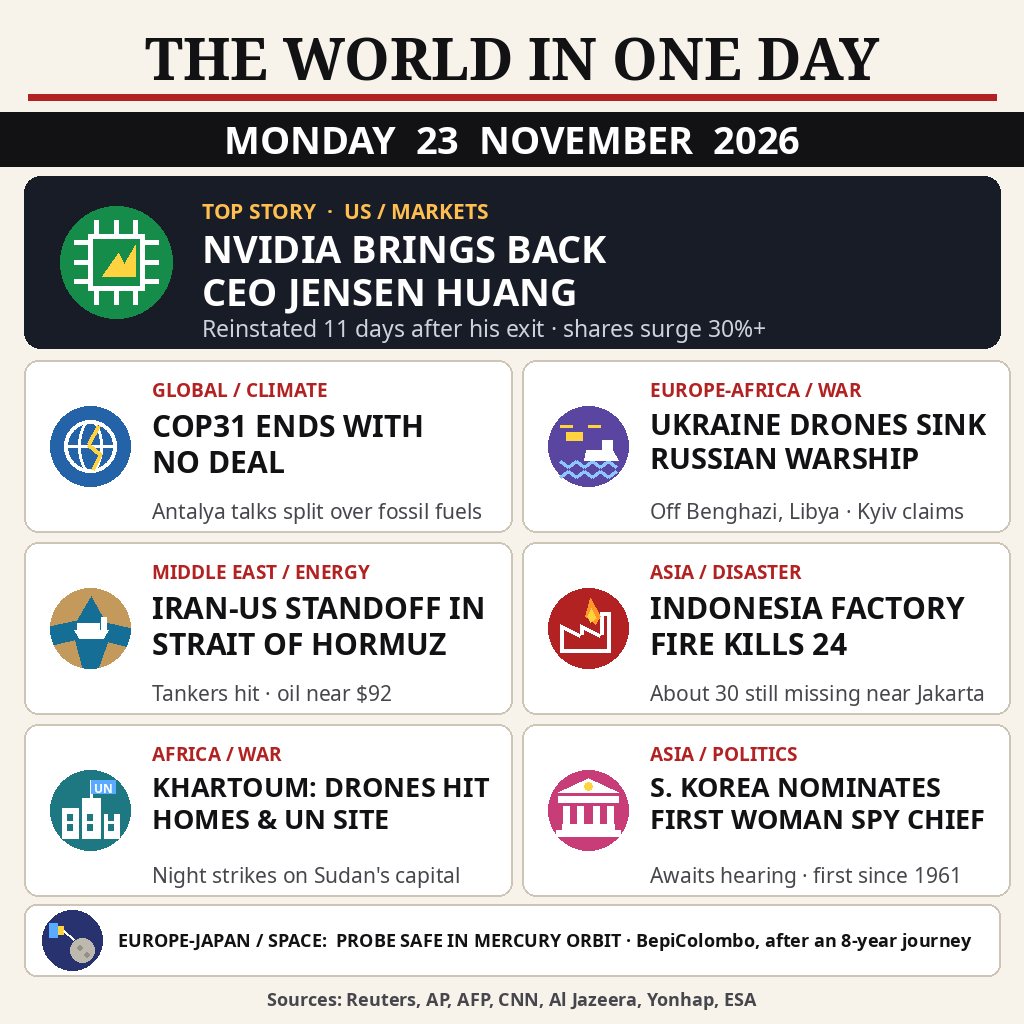
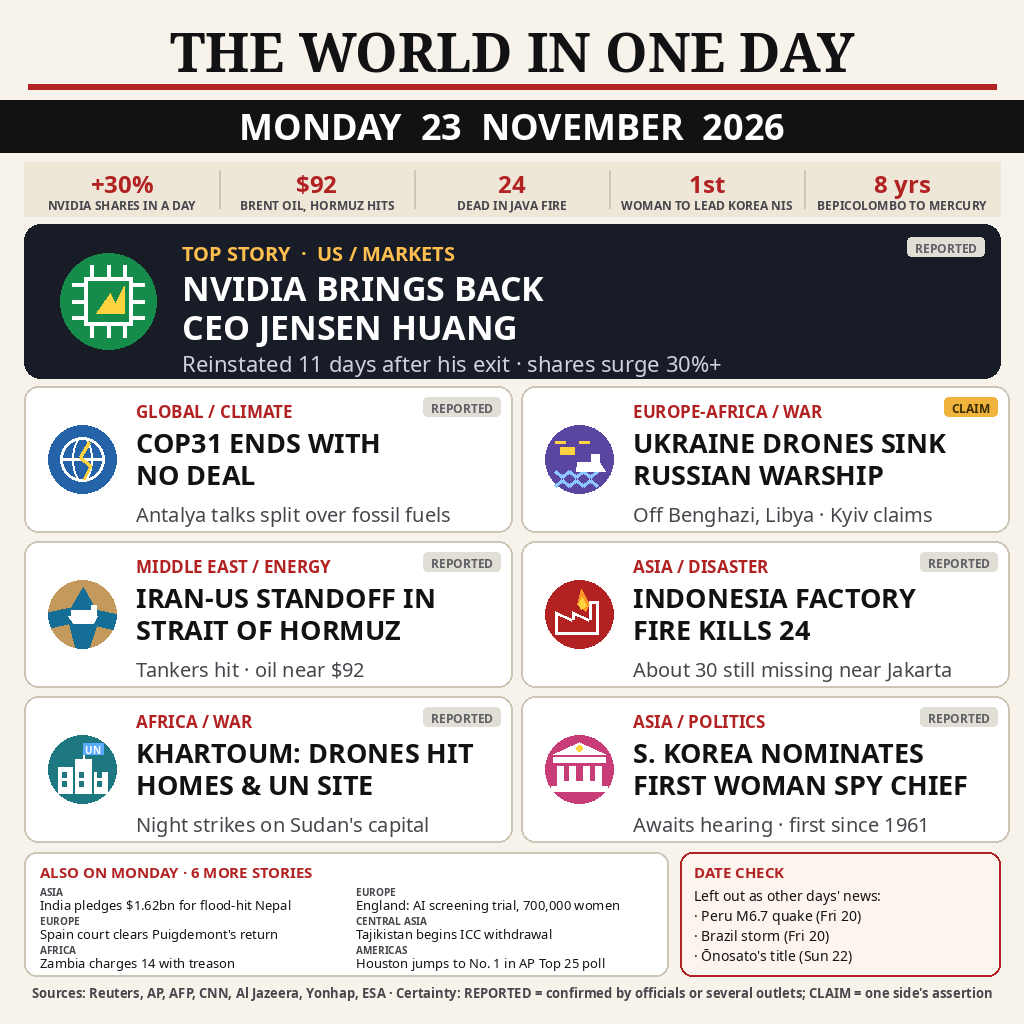
v5: numbers strip, certainty tags, ALSO ON MONDAY, DATE CHECK

diff --git a/gen.py b/gen.py
@@ -1,9 +1,6 @@
 #!/usr/bin/env python3
-"""v3: newspaper-style one-image summary of 23 Nov 2026 world news.
-Fixes applied: verified Indonesia figures (3 dead / 36 missing, official Sunday),
-Korea = nominates + pending confirmation, unified REGION / THEME categories,
-date band padding, NVIDIA as featured top story, distinct Hormuz strait icon,
-government-building icon for Korea, sources footer, Strait of Hormuz wording."""
+"""v5: v4 + competitor-inspired upgrades: numbers strip, REPORTED/CLAIM certainty
+tags, ALSO ON MONDAY micro-stories (verified 23 Nov items), DATE CHECK box."""
 from PIL import Image, ImageDraw, ImageFont
 
 W = 1024
@@ -24,7 +21,7 @@ def font(p, s):
 img = Image.new("RGB", (W, W), BG)
 d = ImageDraw.Draw(img)
 
-def fit(text, path, size, maxw, minsize=16):
+def fit(text, path, size, maxw, minsize=12):
     while size > minsize:
         f = font(path, size)
         if d.textlength(text, font=f) <= maxw:
@@ -32,7 +29,7 @@ def fit(text, path, size, maxw, minsize=16):
         size -= 1
     return font(path, minsize)
 
-def fit_multi(lines, path, size, maxw, minsize=18):
+def fit_multi(lines, path, size, maxw, minsize=16):
     while size > minsize:
         f = font(path, size)
         if max(d.textlength(l, font=f) for l in lines) <= maxw:
@@ -41,25 +38,42 @@ def fit_multi(lines, path, size, maxw, minsize=18):
     return font(path, minsize)
 
 # ---- Masthead ----
-d.text((W // 2, 18), "THE WORLD IN ONE DAY", font=font(FS, 58), fill=INK, anchor="ma")
-d.rectangle([28, 94, W - 28, 100], fill=RED)
-# Date band with even padding
-d.rectangle([0, 112, W, 166], fill=INK)
-d.text((W // 2, 139), "MONDAY  23  NOVEMBER  2026", font=font(FB, 38), fill=(255, 255, 255), anchor="mm")
+d.text((W // 2, 14), "THE WORLD IN ONE DAY", font=font(FS, 54), fill=INK, anchor="ma")
+d.rectangle([28, 84, W - 28, 89], fill=RED)
+d.rectangle([0, 100, W, 152], fill=INK)
+d.text((W // 2, 126), "MONDAY  23  NOVEMBER  2026", font=font(FB, 36), fill=(255, 255, 255), anchor="mm")
+
+# ---- Numbers strip ----
+STATS = [
+    ("+30%", "NVIDIA SHARES IN A DAY"),
+    ("$92", "BRENT OIL, HORMUZ HITS"),
+    ("24", "DEAD IN JAVA FIRE"),
+    ("1st", "WOMAN TO LEAD KOREA NIS"),
+    ("8 yrs", "BEPICOLOMBO TO MERCURY"),
+]
+SY, SH = 162, 54
+d.rectangle([24, SY, W - 24, SY + SH], fill=(238, 231, 216))
+cellw = (W - 48) / 5
+for i, (num, lab) in enumerate(STATS):
+    cx = 24 + cellw * i + cellw / 2
+    d.text((cx, SY + 5), num, font=font(FB, 24), fill=RED, anchor="ma")
+    d.text((cx, SY + 35), lab, font=fit(lab, FB, 12, cellw - 10, 10), fill=SUB, anchor="ma")
+    if i:
+        d.line([24 + cellw * i, SY + 8, 24 + cellw * i, SY + SH - 8], fill=LINE, width=2)
 
 # ---- Icons ----
-def circle(cx, cy, color, r=40):
+def circle(cx, cy, color, r=34):
     d.ellipse([cx - r, cy - r, cx + r, cy + r], fill=color)
 
 def icon_globe(cx, cy):
     circle(cx, cy, (37, 99, 168))
-    d.ellipse([cx - 26, cy - 26, cx + 26, cy + 26], outline=(255, 255, 255), width=4)
-    d.line([cx - 26, cy, cx + 26, cy], fill=(255, 255, 255), width=3)
-    d.arc([cx - 12, cy - 26, cx + 12, cy + 26], 90, 270, fill=(255, 255, 255), width=3)
-    d.arc([cx - 12, cy - 26, cx + 12, cy + 26], 270, 90, fill=(255, 255, 255), width=3)
-    d.line([cx + 8, cy - 20, cx - 2, cy - 2, cx + 10, cy + 8, cx + 2, cy + 24], fill=(255, 210, 63), width=4)
+    d.ellipse([cx - 22, cy - 22, cx + 22, cy + 22], outline=(255, 255, 255), width=3)
+    d.line([cx - 22, cy, cx + 22, cy], fill=(255, 255, 255), width=3)
+    d.arc([cx - 10, cy - 22, cx + 10, cy + 22], 90, 270, fill=(255, 255, 255), width=2)
+    d.arc([cx - 10, cy - 22, cx + 10, cy + 22], 270, 90, fill=(255, 255, 255), width=2)
+    d.line([cx + 7, cy - 17, cx - 2, cy - 2, cx + 8, cy + 7, cx + 2, cy + 20], fill=(255, 210, 63), width=3)
 
-def icon_chip(cx, cy, r=40):
+def icon_chip(cx, cy, r=48):
     circle(cx, cy, (22, 140, 74), r)
     s = r / 40.0
     d.rectangle([cx - 20*s, cy - 20*s, cx + 20*s, cy + 20*s], outline=(255, 255, 255), width=max(3, int(4*s)))
@@ -72,111 +86,133 @@ def icon_chip(cx, cy, r=40):
 
 def icon_drone(cx, cy):
     circle(cx, cy, (90, 70, 160))
-    for k, yy in enumerate((cy + 18, cy + 28)):
-        pts = [(cx - 28 + i * 8, yy + (3 if (i + k) % 2 else -3)) for i in range(8)]
+    for k, yy in enumerate((cy + 15, cy + 24)):
+        pts = [(cx - 24 + i * 7, yy + (3 if (i + k) % 2 else -3)) for i in range(7)]
         d.line(pts, fill=(140, 200, 255), width=3)
-    d.polygon([(cx - 4, cy + 14), (cx + 30, cy + 14), (cx + 24, cy + 4), (cx - 2, cy + 4)], fill=(255, 255, 255))
-    d.rectangle([cx + 14, cy - 6, cx + 24, cy + 4], fill=(255, 255, 255))
-    d.rectangle([cx - 22, cy - 14, cx - 6, cy - 6], fill=(255, 210, 63))
-    for rx in (cx - 28, cx):
-        d.line([rx, cy - 20, rx + 12, cy - 20], fill=(255, 210, 63), width=3)
+    d.polygon([(cx - 3, cy + 12), (cx + 26, cy + 12), (cx + 20, cy + 3), (cx - 2, cy + 3)], fill=(255, 255, 255))
+    d.rectangle([cx + 12, cy - 5, cx + 20, cy + 3], fill=(255, 255, 255))
+    d.rectangle([cx - 19, cy - 12, cx - 5, cy - 5], fill=(255, 210, 63))
+    for rx in (cx - 24, cx):
+        d.line([rx, cy - 17, rx + 10, cy - 17], fill=(255, 210, 63), width=3)
 
 def icon_strait(cx, cy):
-    # tanker passing a narrow strait between two land masses, clipped to a circle
-    S = 84
+    S = 72
     layer = Image.new("RGBA", (S, S), (20, 110, 150, 255))
     ld = ImageDraw.Draw(layer)
-    ld.polygon([(0, 0), (48, 0), (28, 34), (0, 40)], fill=(196, 154, 92, 255))
-    ld.polygon([(84, 0), (38, 0), (58, 36), (84, 42)], fill=(196, 154, 92, 255))
-    ld.polygon([(0, 84), (34, 84), (26, 54), (0, 60)], fill=(196, 154, 92, 255))
-    ld.polygon([(84, 84), (50, 84), (60, 56), (84, 62)], fill=(196, 154, 92, 255))
-    ld.polygon([(26, 44), (60, 44), (55, 52), (31, 52)], fill=(255, 255, 255, 255))
-    ld.rectangle([29, 37, 51, 44], fill=(255, 255, 255, 255))
-    ld.rectangle([53, 31, 58, 44], fill=(255, 255, 255, 255))
+    ld.polygon([(0, 0), (41, 0), (24, 29), (0, 34)], fill=(196, 154, 92, 255))
+    ld.polygon([(72, 0), (33, 0), (50, 31), (72, 36)], fill=(196, 154, 92, 255))
+    ld.polygon([(0, 72), (29, 72), (22, 46), (0, 51)], fill=(196, 154, 92, 255))
+    ld.polygon([(72, 72), (43, 72), (51, 48), (72, 53)], fill=(196, 154, 92, 255))
+    ld.polygon([(22, 38), (51, 38), (47, 45), (27, 45)], fill=(255, 255, 255, 255))
+    ld.rectangle([25, 32, (44), 38], fill=(255, 255, 255, 255))
+    ld.rectangle([45, 27, 50, 38], fill=(255, 255, 255, 255))
     mask = Image.new("L", (S, S), 0)
     ImageDraw.Draw(mask).ellipse([2, 2, S - 2, S - 2], fill=255)
     img.paste(layer, (cx - S // 2, cy - S // 2), mask)
 
 def icon_factory(cx, cy):
     circle(cx, cy, (178, 34, 34))
-    d.polygon([(cx - 28, cy + 24), (cx - 28, cy - 4), (cx - 8, cy + 6), (cx - 8, cy - 4), (cx + 12, cy + 6), (cx + 12, cy - 16), (cx + 22, cy - 16), (cx + 22, cy + 24)], outline=(255, 255, 255), width=4)
-    d.polygon([(cx + 2, cy - 30), (cx + 12, cy - 12), (cx + 7, cy - 4), (cx - 3, cy - 12)], fill=(255, 150, 40))
-    d.polygon([(cx + 3, cy - 20), (cx + 8, cy - 10), (cx + 2, cy - 6), (cx - 1, cy - 12)], fill=(255, 210, 63))
+    d.polygon([(cx - 24, cy + 20), (cx - 24, cy - 3), (cx - 7, cy + 5), (cx - 7, cy - 3), (cx + 10, cy + 5), (cx + 10, cy - 13), (cx + 19, cy - 13), (cx + 19, cy + 20)], outline=(255, 255, 255), width=3)
+    d.polygon([(cx + 2, cy - 25), (cx + 10, cy - 10), (cx + 6, cy - 3), (cx - 2, cy - 10)], fill=(255, 150, 40))
+    d.polygon([(cx + 3, cy - 17), (cx + 7, cy - 8), (cx + 2, cy - 5), (cx - 1, cy - 10)], fill=(255, 210, 63))
 
 def icon_city(cx, cy):
     circle(cx, cy, (30, 120, 130))
-    d.rectangle([cx - 28, cy - 2, cx - 12, cy + 28], fill=(255, 255, 255))
-    d.rectangle([cx - 8, cy - 12, cx + 10, cy + 28], fill=(255, 255, 255))
-    d.rectangle([cx + 14, cy + 4, cx + 29, cy + 28], fill=(255, 255, 255))
-    for wx in (cx - 23, cx - 3, cx + 18):
-        for wy in (cy + 4, cy + 14):
-            d.rectangle([wx, wy, wx + 5, wy + 6], fill=(30, 120, 130))
-    d.line([cx + 1, cy - 30, cx + 1, cy - 12], fill=(255, 255, 255), width=3)
-    d.rectangle([cx + 1, cy - 30, cx + 25, cy - 17], fill=(90, 170, 255))
-    d.text((cx + 13, cy - 30), "UN", font=font(FB, 12), fill=(255, 255, 255), anchor="ma")
+    d.rectangle([cx - 24, cy - 2, cx - 10, cy + 24], fill=(255, 255, 255))
+    d.rectangle([cx - 7, cy - 10, cx + 9, cy + 24], fill=(255, 255, 255))
+    d.rectangle([cx + 12, cy + 3, cx + 25, cy + 24], fill=(255, 255, 255))
+    for wx in (cx - 20, cx - 3, cx + 15):
+        for wy in (cy + 3, cy + 12):
+            d.rectangle([wx, wy, wx + 4, wy + 5], fill=(30, 120, 130))
+    d.line([cx + 1, cy - 26, cx + 1, cy - 10], fill=(255, 255, 255), width=2)
+    d.rectangle([cx + 1, cy - 26, cx + 21, cy - 15], fill=(90, 170, 255))
+    d.text((cx + 11, cy - 26), "UN", font=font(FB, 10), fill=(255, 255, 255), anchor="ma")
 
 def icon_gov(cx, cy):
-    # government building: pediment, columns, steps (no eye/triangle symbolism)
     circle(cx, cy, (200, 60, 120))
-    d.polygon([(cx - 30, cy - 18), (cx + 30, cy - 18), (cx, cy - 32)], fill=(255, 255, 255))
-    d.rectangle([cx - 30, cy - 14, cx + 30, cy - 8], fill=(255, 255, 255))
-    for i in (-22, -8, 8, 22):
-        d.rectangle([cx + i - 3, cy - 4, cx + i + 3, cy + 16], fill=(255, 255, 255))
-    d.rectangle([cx - 32, cy + 20, cx + 32, cy + 26], fill=(255, 255, 255))
-    d.rectangle([cx - 26, cy + 14, cx + 26, cy + 20], fill=(255, 255, 255))
-    d.ellipse([cx - 4, cy - 28, cx + 4, cy - 20], fill=(255, 210, 63))
+    d.polygon([(cx - 26, cy - 15), (cx + 26, cy - 15), (cx, cy - 27)], fill=(255, 255, 255))
+    d.rectangle([cx - 26, cy - 12, cx + 26, cy - 7], fill=(255, 255, 255))
+    for i in (-19, -7, 7, 19):
+        d.rectangle([cx + i - 3, cy - 3, cx + i + 3, cy + 14], fill=(255, 255, 255))
+    d.rectangle([cx - 28, cy + 17, cx + 28, cy + 22], fill=(255, 255, 255))
+    d.rectangle([cx - 22, cy + 12, cx + 22, cy + 17], fill=(255, 255, 255))
+    d.ellipse([cx - 3, cy - 24, cx + 3, cy - 18], fill=(255, 210, 63))
 
-def icon_planet(cx, cy):
-    circle(cx, cy, (40, 50, 110), 30)
-    d.ellipse([cx - 2, cy - 2, cx + 22, cy + 22], fill=(190, 185, 175))
-    d.ellipse([cx + 5, cy + 5, cx + 10, cy + 10], fill=(150, 145, 135))
-    d.ellipse([cx + 12, cy + 12, cx + 17, cy + 17], fill=(150, 145, 135))
-    d.rectangle([cx - 20, cy - 14, cx - 9, cy - 6], fill=(255, 210, 63))
-    d.rectangle([cx - 23, cy - 17, cx - 15, cy - 3], fill=(90, 170, 255))
-    d.line([cx - 9, cy - 10, cx + 1, cy - 1], fill=(255, 255, 255), width=2)
+def tag(x_right, y, kind):
+    label = "CLAIM" if kind == "claim" else "REPORTED"
+    bg = (240, 180, 60) if kind == "claim" else (225, 222, 214)
+    fg = (60, 45, 0) if kind == "claim" else (95, 95, 100)
+    f = font(FB, 12)
+    w = d.textlength(label, font=f) + 14
+    d.rounded_rectangle([x_right - w, y, x_right, y + 19], radius=4, fill=bg)
+    d.text((x_right - w / 2, y + 3), label, font=f, fill=fg, anchor="ma")
 
 # ---- Featured: NVIDIA ----
-FX, FY, FW, FH = 24, 176, W - 48, 172
+FX, FY, FW, FH = 24, 224, W - 48, 154
 d.rounded_rectangle([FX, FY, FX + FW, FY + FH], radius=16, fill=(24, 28, 38))
-icon_chip(FX + 92, FY + FH // 2, 56)
-tx = FX + 178
-d.text((tx, FY + 20), "TOP STORY  ·  US / MARKETS", font=font(FB, 21), fill=(255, 190, 80))
-hf = fit_multi(["NVIDIA BRINGS BACK", "CEO JENSEN HUANG"], FB, 38, FW - 178 - 24)
-d.multiline_text((tx, FY + 46), "NVIDIA BRINGS BACK\nCEO JENSEN HUANG", font=hf, fill=(255, 255, 255), spacing=2)
-d.text((tx, FY + FH - 36), "Reinstated 11 days after his exit · shares surge 30%+", font=fit("Reinstated 11 days after his exit · shares surge 30%+", FR, 23, FW - 178 - 24, 18), fill=(205, 210, 220))
+icon_chip(FX + 84, FY + FH // 2, 48)
+tx = FX + 158
+d.text((tx, FY + 15), "TOP STORY  ·  US / MARKETS", font=font(FB, 20), fill=(255, 190, 80))
+tag(FX + FW - 16, FY + 13, "reported")
+hf = fit_multi(["NVIDIA BRINGS BACK", "CEO JENSEN HUANG"], FB, 34, FW - 158 - 24)
+d.multiline_text((tx, FY + 40), "NVIDIA BRINGS BACK\nCEO JENSEN HUANG", font=hf, fill=(255, 255, 255), spacing=2)
+d.text((tx, FY + FH - 30), "Reinstated 11 days after his exit · shares surge 30%+", font=fit("Reinstated 11 days after his exit · shares surge 30%+", FR, 22, FW - 158 - 24, 16), fill=(205, 210, 220))
 
 # ---- Grid panels ----
 PANELS = [
-    ("GLOBAL / CLIMATE", icon_globe, "COP31 ENDS WITH\nNO DEAL", "Antalya talks split over fossil fuels"),
-    ("EUROPE-AFRICA / WAR", icon_drone, "UKRAINE DRONES SINK\nRUSSIAN WARSHIP", "Off Benghazi, Libya · Kyiv claims"),
-    ("MIDDLE EAST / ENERGY", icon_strait, "IRAN-US STANDOFF IN\nSTRAIT OF HORMUZ", "Tankers hit · oil near $92"),
-    ("ASIA / DISASTER", icon_factory, "INDONESIA FACTORY\nFIRE KILLS 24", "About 30 still missing near Jakarta"),
-    ("AFRICA / WAR", icon_city, "KHARTOUM: DRONES HIT\nHOMES & UN SITE", "Night strikes on Sudan's capital"),
-    ("ASIA / POLITICS", icon_gov, "S. KOREA NOMINATES\nFIRST WOMAN SPY CHIEF", "Awaits hearing · first since 1961"),
+    ("GLOBAL / CLIMATE", icon_globe, "COP31 ENDS WITH\nNO DEAL", "Antalya talks split over fossil fuels", "reported"),
+    ("EUROPE-AFRICA / WAR", icon_drone, "UKRAINE DRONES SINK\nRUSSIAN WARSHIP", "Off Benghazi, Libya · Kyiv claims", "claim"),
+    ("MIDDLE EAST / ENERGY", icon_strait, "IRAN-US STANDOFF IN\nSTRAIT OF HORMUZ", "Tankers hit · oil near $92", "reported"),
+    ("ASIA / DISASTER", icon_factory, "INDONESIA FACTORY\nFIRE KILLS 24", "About 30 still missing near Jakarta", "reported"),
+    ("AFRICA / WAR", icon_city, "KHARTOUM: DRONES HIT\nHOMES & UN SITE", "Night strikes on Sudan's capital", "reported"),
+    ("ASIA / POLITICS", icon_gov, "S. KOREA NOMINATES\nFIRST WOMAN SPY CHIEF", "Awaits hearing · first since 1961", "reported"),
 ]
-X0, Y0 = 24, 360
-PW, PH, GAP = 488, 172, 10
-for i, (cat, icon, head, sub) in enumerate(PANELS):
+X0, Y0 = 24, 386
+PW, PH, GAP = 488, 146, 9
+for i, (cat, icon, head, sub, kind) in enumerate(PANELS):
     col, row = i % 2, i // 2
     x = X0 + col * (PW + GAP)
     y = Y0 + row * (PH + GAP)
     d.rounded_rectangle([x, y, x + PW, y + PH], radius=14, fill=CARD, outline=LINE, width=2)
-    icon(x + 66, y + PH // 2)
-    tx = x + 128
-    d.text((tx, y + 16), cat, font=font(FB, 19), fill=RED)
-    hf = fit_multi(head.split("\n"), FB, 30, PW - 128 - 14)
-    d.multiline_text((tx, y + 44), head, font=hf, fill=INK, spacing=3)
-    d.text((tx, y + PH - 36), sub, font=fit(sub, FR, 21, PW - 128 - 14, 17), fill=SUB)
+    icon(x + 58, y + PH // 2)
+    tx = x + 112
+    d.text((tx, y + 13), cat, font=font(FB, 17), fill=RED)
+    tag(x + PW - 12, y + 11, kind)
+    hf = fit_multi(head.split("\n"), FB, 27, PW - 112 - 14)
+    d.multiline_text((tx, y + 38), head, font=hf, fill=INK, spacing=3)
+    d.text((tx, y + PH - 32), sub, font=fit(sub, FR, 20, PW - 112 - 14, 15), fill=SUB)
 
-# ---- Bottom strip: space ----
-SX, SY, SW, SH = 24, 904, W - 48, 72
-d.rounded_rectangle([SX, SY, SX + SW, SY + SH], radius=12, fill=CARD, outline=LINE, width=2)
-icon_planet(SX + 48, SY + SH // 2)
-strip = "EUROPE-JAPAN / SPACE:  PROBE SAFE IN MERCURY ORBIT · BepiColombo, after an 8-year journey"
-d.text((SX + 94, SY + SH // 2), strip, font=fit(strip, FB, 23, SW - 94 - 16, 16), fill=INK, anchor="lm")
+# ---- Bottom: ALSO ON MONDAY + DATE CHECK ----
+BY = 386 + 3 * 146 + 2 * 9 + 10  # 852
+BH = 124
+d.rounded_rectangle([24, BY, 668, BY + BH], radius=12, fill=CARD, outline=LINE, width=2)
+d.text((40, BY + 9), "ALSO ON MONDAY · 6 MORE STORIES", font=font(FB, 15), fill=RED)
+ALSO = [
+    ("ASIA", "India pledges $1.62bn for flood-hit Nepal"),
+    ("EUROPE", "England: AI screening trial, 700,000 women"),
+    ("EUROPE", "Spain court clears Puigdemont's return"),
+    ("CENTRAL ASIA", "Tajikistan begins ICC withdrawal"),
+    ("AFRICA", "Zambia charges 14 with treason"),
+    ("AMERICAS", "Houston jumps to No. 1 in AP Top 25 poll"),
+]
+for i, (reg, line) in enumerate(ALSO):
+    col, row = i % 2, i // 2
+    x = 40 + col * 316
+    y = BY + 33 + row * 29
+    d.text((x, y), reg, font=font(FB, 10), fill=SUB)
+    d.text((x, y + 11), line, font=fit(line, FR, 13, 306, 11), fill=INK)
 
-# ---- Footer with sources ----
-d.text((W // 2, 986), "Sources: Reuters, AP, AFP, CNN, Al Jazeera, Yonhap, ESA", font=font(FB, 18), fill=SUB, anchor="ma")
+d.rounded_rectangle([680, BY, W - 24, BY + BH], radius=12, fill=(253, 244, 238), outline=RED, width=2)
+d.text((694, BY + 9), "DATE CHECK", font=font(FB, 15), fill=RED)
+dc = ["Left out as other days' news:",
+      "· Peru M6.7 quake (Fri 20)",
+      "· Brazil storm (Fri 20)",
+      "· Ōnosato's title (Sun 22)"]
+for i, line in enumerate(dc):
+    d.text((694, BY + 34 + i * 20), line, font=fit(line, FR, 14, W - 24 - 694 - 12, 11), fill=INK)
+
+# ---- Footer ----
+d.text((W // 2, 984), "Sources: Reuters, AP, AFP, CNN, Al Jazeera, Yonhap, ESA · Certainty: REPORTED = confirmed by officials or several outlets; CLAIM = one side's assertion", font=fit("Sources: Reuters, AP, AFP, CNN, Al Jazeera, Yonhap, ESA · Certainty: REPORTED = confirmed by officials or several outlets; CLAIM = one side's assertion", FB, 13, W - 48, 10), fill=SUB, anchor="ma")
 
 img.save("/home/hatch/workspace/makefun/news-image/entry.png")
 print("saved", img.size)
